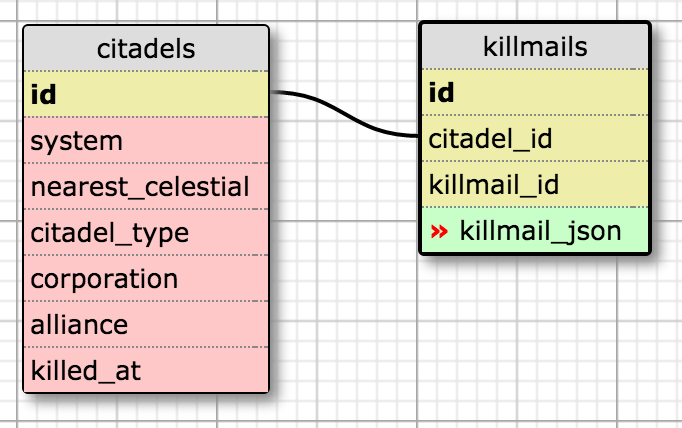
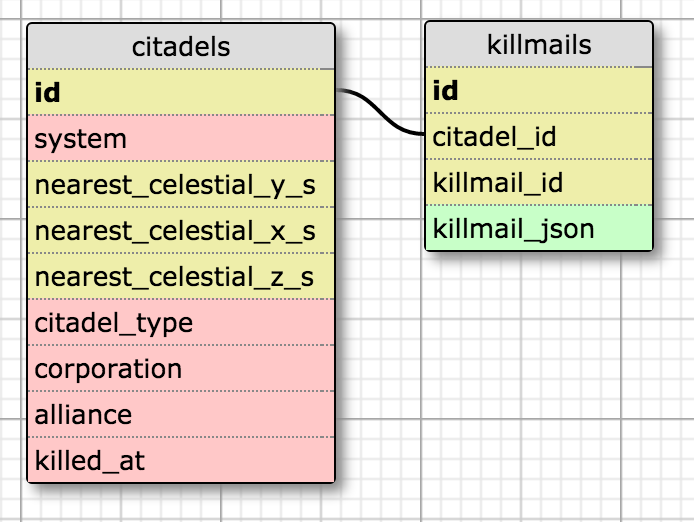
complete km specs

diff --git a/spec/models/killmail_spec.rb b/spec/models/killmail_spec.rb
@@ -92,9 +92,9 @@ describe 'Killmail model' do
       let(:target) do
         {
           system: 'E8-YS9',
-          nearest_celestial_y: -3528973131527.2695,
-          nearest_celestial_x: 1455528965291.3196,
-          nearest_celestial_z: -307958392850.36145,
+          nearest_celestial_y_s: -3528973131527.2695,
+          nearest_celestial_x_s: 1455528965291.3196,
+          nearest_celestial_z_s: -307958392850.36145,
           citadel_type: 'Astrahus',
           corporation: 'Forge Industrial Command',
           alliance: 'FUBAR.',
@@ -111,9 +111,9 @@ describe 'Killmail model' do
       let(:target) do
         {
           system: 'Jaschercis',
-          nearest_celestial_y: 116721448927.0,
-          nearest_celestial_x: -808460360514.0,
-          nearest_celestial_z: -615629639132.0,
+          nearest_celestial_y_s: 116721448927.0,
+          nearest_celestial_x_s: -808460360514.0,
+          nearest_celestial_z_s: -615629639132.0,
           citadel_type: 'Astrahus',
           corporation: 'Tokenada Technical Enterprises',
           alliance: nil,
@@ -179,69 +179,40 @@ describe 'Killmail model' do
     end
   end
 
-  describe 'generate_killmail_hash' do
-    context 'creates a hash of relevant killmail data' do
-      let(:killmail_fixture) { File.read('./spec/fixtures/astrahus_killmail.json') }
-      let(:killmail) { Killmail.new(killmail_json: killmail_fixture) }
-      let(:target) do 
-        {
-          citadel_id: killmail.find_or_create_citadel.id,
-          killmail_id: killmail.killmail_data['killID']
-        }
-      end
-      temporarily do 
-        it 'returns a hash' do
-          expect(killmail.generate_killmail_hash).to eq(target)
-        end
-      end
-    end
-  end
-
-  describe 'create_killmail' do
+  describe 'save_if_relevant' do
     let(:killmail_fixture) { File.read('./spec/fixtures/astrahus_killmail.json') }
+    let(:ship_killmail_fixture) { File.read('./spec/fixtures/ship_killmail.json') }
     let(:killmail) { Killmail.new(killmail_json: killmail_fixture) }
-    context 'stores correct data' do
-      it 'is accurate' do
+    let(:killmail2) { Killmail.new(killmail_json: killmail_fixture) }
+    context 'new killmail' do
+      it 'saves to db' do
         temporarily do
           citadel = killmail.find_or_create_citadel
-          test_killmail = killmail.create_killmail
-          expect(test_killmail.citadel_id).to eq(citadel.id)
-          expect(test_killmail.killmail_id).to eq(killmail.killmail_data['killID'])
-          expect(test_killmail.killmail_json).to eq()
+          killmail.save_if_relevant
+          expect(killmail.citadel_id).to eq(citadel.id)
+          expect(killmail.killmail_id).to eq(killmail.killmail_data['killID'])
+          expect(killmail.killmail_json).to eq(killmail.killmail_json)
+        end
+      end
+      context 'duplicate killmail' do
+        it 'does not save' do
+          temporarily do
+            killmail.save_if_relevant
+            killmail2.save_if_relevant
+            expect(Killmail.count).to eq(1)
+          end
+        end
+      end
+      context 'not relevant report' do
+        let(:ship_killmail) { Killmail.new(killmail_json: ship_killmail_fixture) }
+        it 'does not save' do
+          temporarily do
+            expect do
+              expect(ship_killmail.save_if_relevant).to be_falsey
+            end.to change(Killmail, :count).by 0
+          end
         end
       end
     end
   end
-
-  # describe 'associations' do
-  #   let(:citadel_hash) do
-  #     {
-  #       system: 'E8-YS9',
-  #       nearest_celestial_y: -3528973131527.2695,
-  #       nearest_celestial_x: 1455528965291.3196,
-  #       nearest_celestial_z: -307958392850.36145,
-  #       citadel_type: 'Astrahus',
-  #       corporation: 'Forge Industrial Command',
-  #       alliance: 'FUBAR.',
-  #       killed_at: nil
-  #     }
-  #   end
-  #   let(:killmail) { Killmail.new }
-
-  #   context 'an existing citadel records another killmail' do
-  #     it 'associates kill to existing citadel correctly' do
-  #       temporarily do
-  #         allow(killmail).to receive(:generate_citadel_hash) { citadel_hash }
-  #         citadel = Citadel.create(citadel_hash)
-        
-
-
-  #       end
-  #     end
-  #   end
-  # end
-
-  
-
-  it 'additional relevant killmail does not add to Citadel db'
 end

diff --git a/models/killmail.rb b/models/killmail.rb
@@ -41,20 +41,24 @@ class Killmail < ActiveRecord::Base
   def create_attacker_hash
     attacker_hash = {}
     killmail_data['attackers'].each do |attacker|
-      next unless self.class.valid_citadel_types.include?(attacker['shipType']['name'])
-      attacker_hash = {
-        system: killmail_data['solarSystem']['name'],
-        nearest_celestial_y_s: killmail_data['victim']['position']['y'],
-        nearest_celestial_x_s: killmail_data['victim']['position']['x'],
-        nearest_celestial_z_s: killmail_data['victim']['position']['z'],
-        citadel_type: attacker['shipType']['name'],
-        corporation: attacker['corporation']['name'],
-        killed_at: nil
-      }
-      if attacker['alliance']
-        attacker_hash[:alliance] = attacker['alliance']['name']
+      if attacker['shipType']
+        next unless self.class.valid_citadel_types.include?(attacker['shipType']['name'])
+        attacker_hash = {
+          system: killmail_data['solarSystem']['name'],
+          nearest_celestial_y_s: killmail_data['victim']['position']['y'],
+          nearest_celestial_x_s: killmail_data['victim']['position']['x'],
+          nearest_celestial_z_s: killmail_data['victim']['position']['z'],
+          citadel_type: attacker['shipType']['name'],
+          corporation: attacker['corporation']['name'],
+          killed_at: nil
+        }
+        if attacker['alliance']
+          attacker_hash[:alliance] = attacker['alliance']['name']
+        else
+          attacker_hash[:alliance] = nil
+        end
       else
-        attacker_hash[:alliance] = nil
+        return false
       end
     end
     attacker_hash
@@ -80,22 +84,15 @@ class Killmail < ActiveRecord::Base
 
   def find_or_create_citadel
     citadel = Citadel.where(generate_citadel_hash).first
-    unless citadel 
+    unless citadel
       citadel = Citadel.create(generate_citadel_hash)
     end
     citadel
   end
 
-  def generate_killmail_hash
-    kill_hash = {
-      citadel_id: find_or_create_citadel.id,
-      killmail_id: killmail_data['killID'],
-    }
-
+  def save_if_relevant
+    self.citadel_id = find_or_create_citadel.id
+    self.killmail_id = killmail_data['killID']
+    save
   end
-
-  def create_killmail
-    Killmail.create(generate_killmail_hash)
-  end
-
 end
